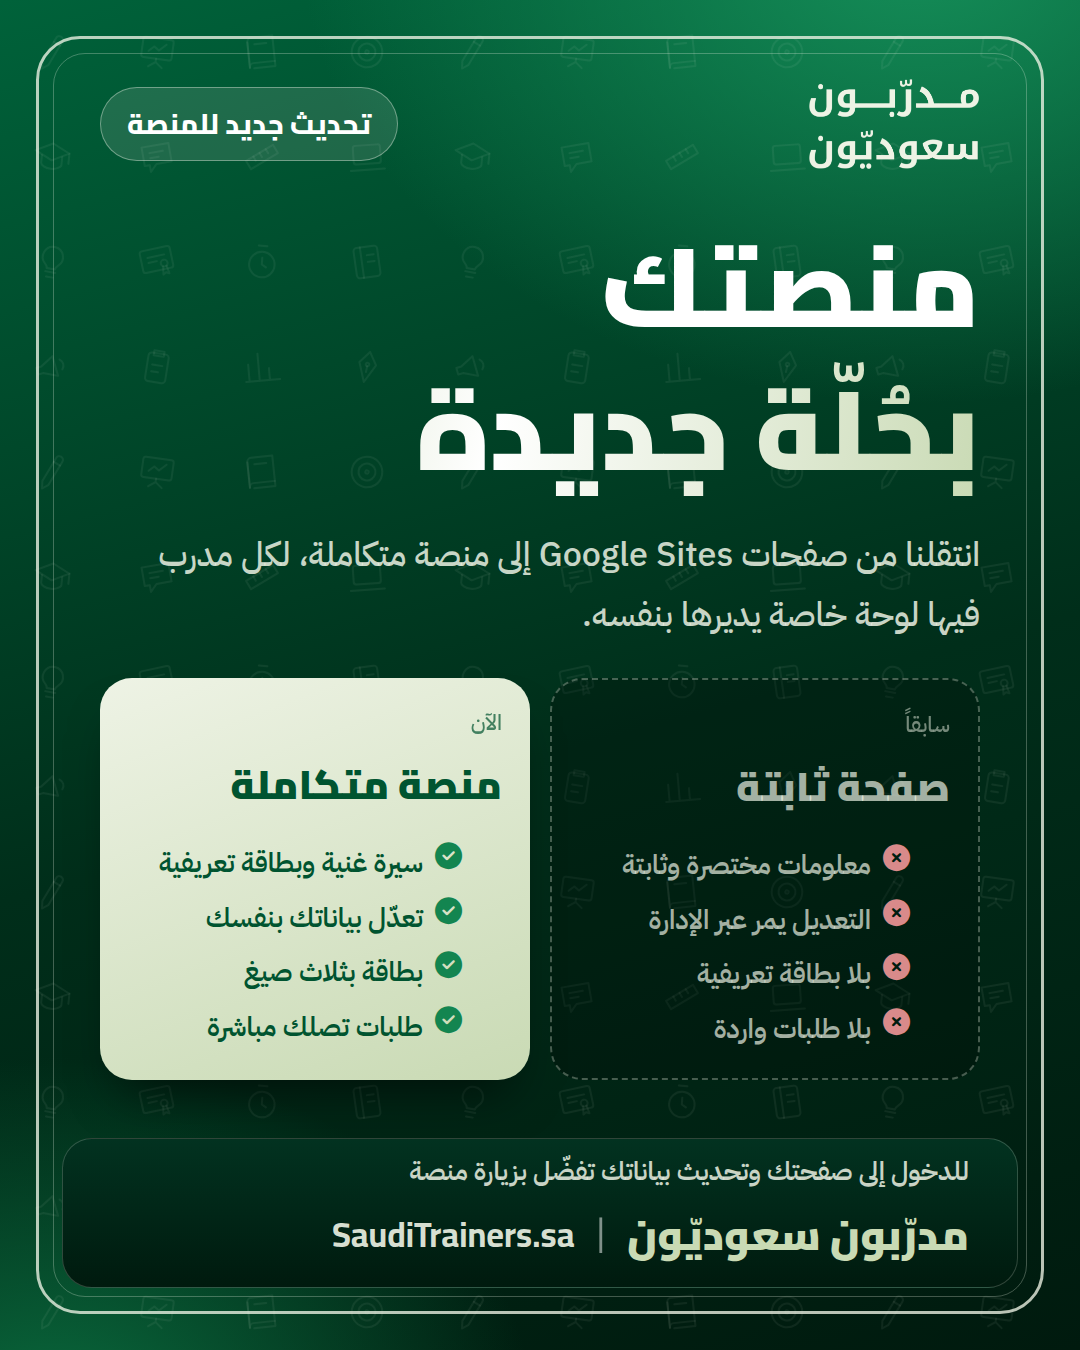
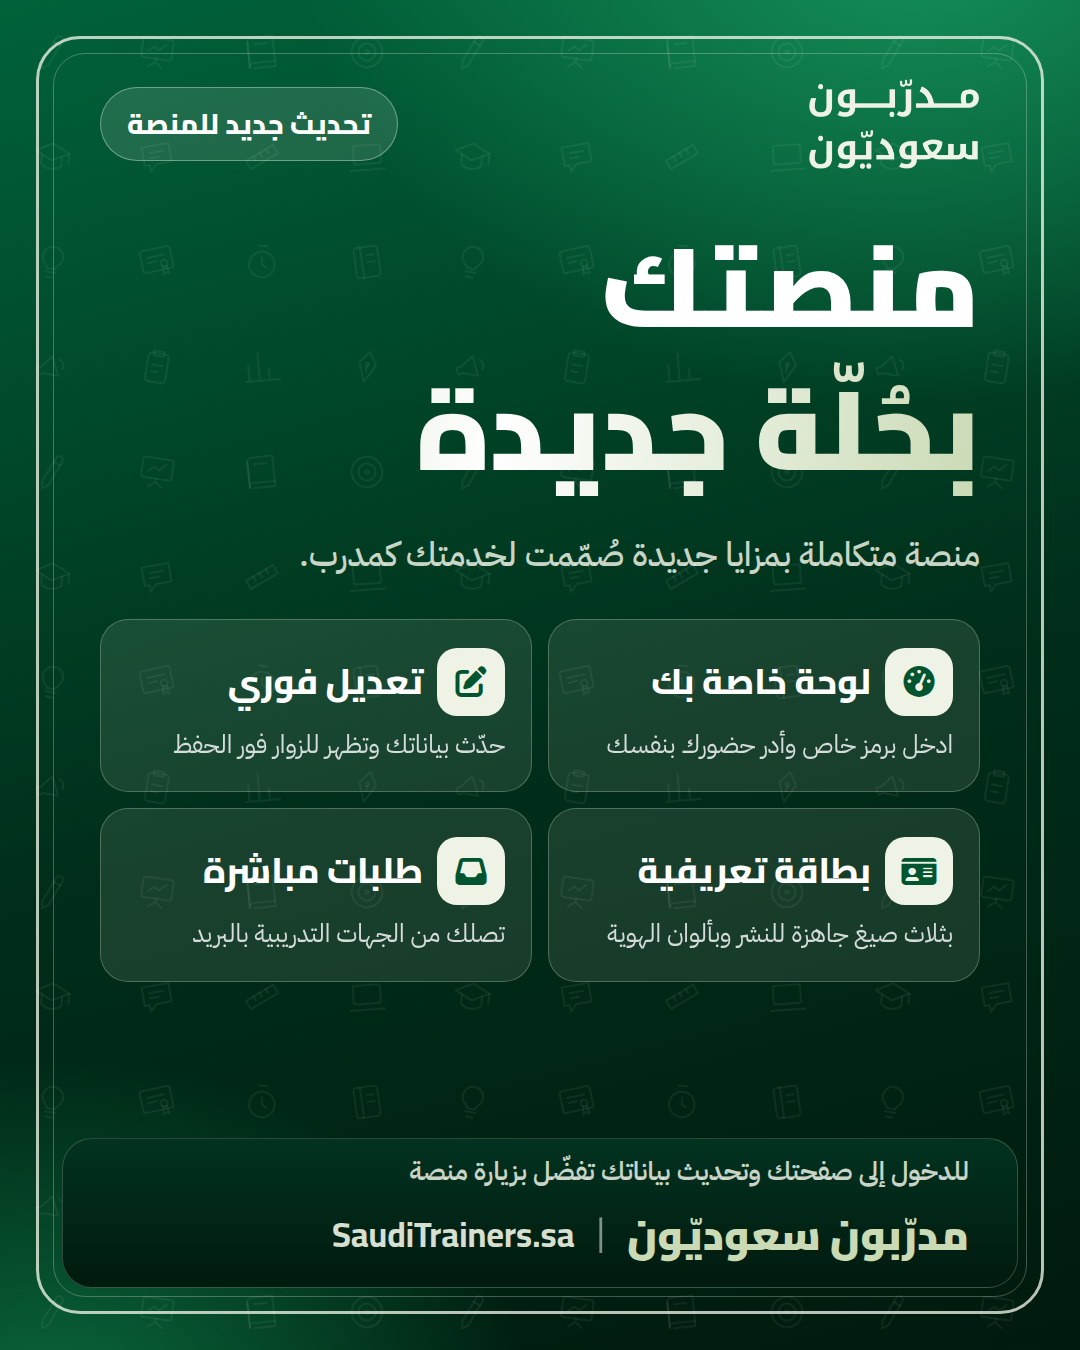
إعادة تصميم صورة التحديث الأولى: المزايا الجديدة فقط
Claude-Session: https://claude.ai/code/session_01Fu7HFzxcSeu2DaK9aAa2Uf

Changed region(s): [[0.0917, 0.4044, 0.9167, 0.8089]]

diff --git a/tools/promo/updates.html b/tools/promo/updates.html
@@ -156,9 +156,12 @@ h2{font-family:'Cairo';font-weight:900;font-size:86px;line-height:1.3}
 <section class="post t-brand" id="u1"><div class="frame"></div>
   <div class="top"><img src="/assets/logo-cream.png" alt=""><span class="kick">تحديث جديد للمنصة</span></div>
   <div class="body"><h1>منصتك<span class="acc">بحُلّة جديدة</span></h1>
- <p class="sub" style="margin-top:10px;font-size:34px">انتقلنا من صفحات Google Sites إلى منصة متكاملة، لكل مدرب فيها لوحة خاصة يديرها بنفسه.</p>
- <div class="vs"><div class="old"><small>سابقاً</small><h3>صفحة ثابتة</h3><ul><li><i class="fa-solid fa-circle-xmark"></i>معلومات مختصرة وثابتة</li><li><i class="fa-solid fa-circle-xmark"></i>التعديل يمر عبر الإدارة</li><li><i class="fa-solid fa-circle-xmark"></i>بلا بطاقة تعريفية</li><li><i class="fa-solid fa-circle-xmark"></i>بلا طلبات واردة</li></ul></div>
- <div class="new"><small>الآن</small><h3>منصة متكاملة</h3><ul><li><i class="fa-solid fa-circle-check"></i>سيرة غنية وبطاقة تعريفية</li><li><i class="fa-solid fa-circle-check"></i>تعدّل بياناتك بنفسك</li><li><i class="fa-solid fa-circle-check"></i>بطاقة بثلاث صيغ</li><li><i class="fa-solid fa-circle-check"></i>طلبات تصلك مباشرة</li></ul></div></div></div>
+ <p class="sub" style="margin-top:10px;font-size:34px">منصة متكاملة بمزايا جديدة صُمّمت لخدمتك كمدرب.</p>
+ <div class="tiles" style="margin-top:34px">
+ <div><div class="hd"><span class="ic"><i class="fa-solid fa-gauge-high"></i></span><h3>لوحة خاصة بك</h3></div><p>ادخل برمز خاص وأدر حضورك بنفسك</p></div>
+ <div><div class="hd"><span class="ic"><i class="fa-solid fa-pen-to-square"></i></span><h3>تعديل فوري</h3></div><p>حدّث بياناتك وتظهر للزوار فور الحفظ</p></div>
+ <div><div class="hd"><span class="ic"><i class="fa-solid fa-id-card"></i></span><h3>بطاقة تعريفية</h3></div><p>بثلاث صيغ جاهزة للنشر وبألوان الهوية</p></div>
+ <div><div class="hd"><span class="ic"><i class="fa-solid fa-inbox"></i></span><h3>طلبات مباشرة</h3></div><p>تصلك من الجهات التدريبية بالبريد</p></div></div></div>
   <div class="foot"><div><div class="lead">للدخول إلى صفحتك وتحديث بياناتك تفضّل بزيارة منصة</div><div class="line"><b>مدرّبون سعوديّون</b><i class="sep">|</i><em>SaudiTrainers.sa</em></div></div></div>
 </section>
 <section class="post t-deep" id="u2"><div class="frame"></div>
